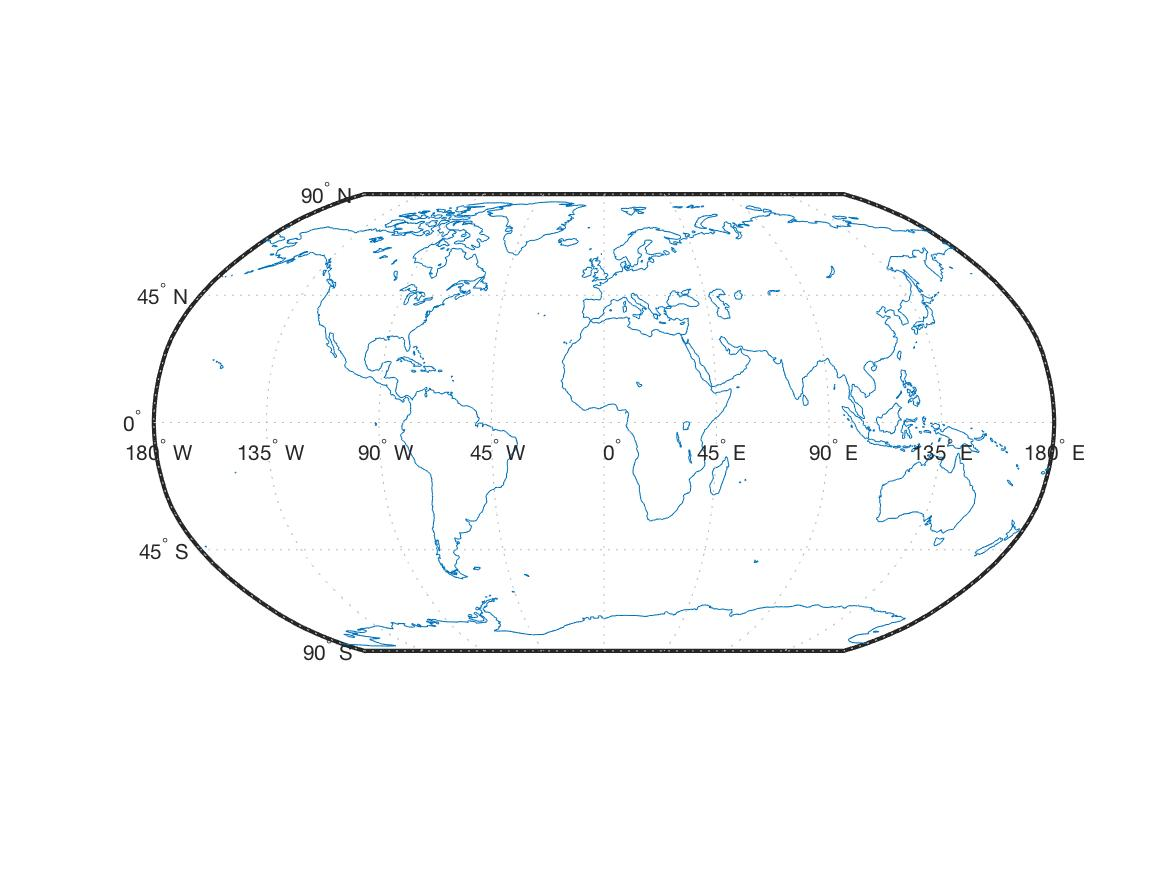
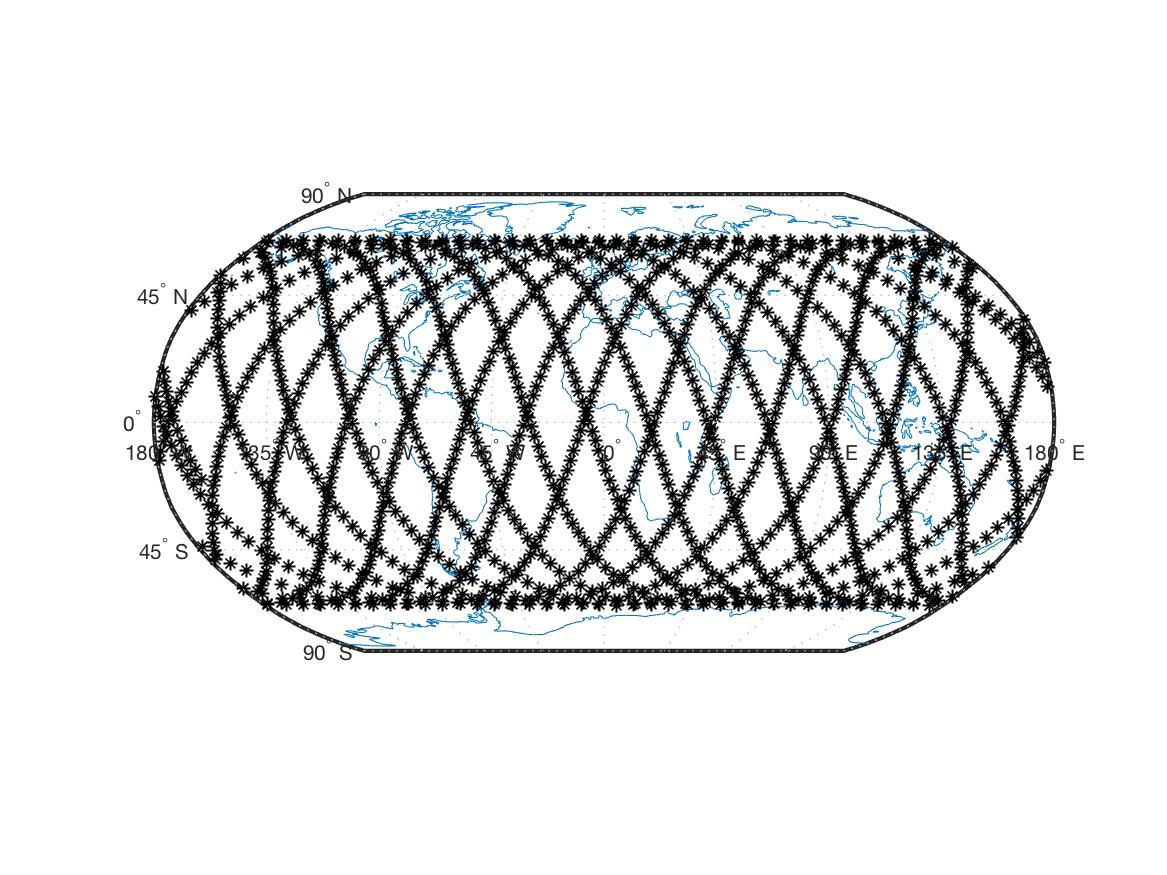
First pass at plotting ground tracks. Code is drafted but has bugs

Changed region(s): [[0.1234, 0.2469, 0.8946, 0.7097]]

diff --git a/initialize_track.py b/initialize_track.py
@@ -1,5 +1,5 @@
 ## Import modules
-import math; import datetime; import numpy as np;
+import math; import datetime; import numpy as np; import matlab.engine; import os;
 
 def solve_kepler(M,e):
     ## Purpose: Given mean anomaly and eccentricity, return eccentric anomaly
@@ -23,12 +23,99 @@ def solve_kepler(M,e):
         E -= ratio
         ratio = f(E)/f_prime(E)
 
+    if E > 2.0*math.pi:
+        two_pi = 2.0*math.pi
+        rem = E % two_pi
+        E = rem
+
     return E
 
-def calc_w(E,e0):
+def calc_w(E,e):
     ## Purpose: Given eccentric anomaly and eccentricity, return true anomaly
 
+    ## Inputs:
+    ##   E: eccentric anomaly
+    ##   e: eccentricity
+
     e_coef = math.sqrt((1-e)/(1+e))
+    w = 2.0*math.atan(math.tan(E/2.0)/e_coef)
+
+    if w < 0:
+        w += 2.0*math.pi
+
+    return w
+
+def peri2geo(O,i,wp):
+    ## Purpose: Given RAAN, inclination, and argument of perigee, return rotation matrix from perifocal to geocentric frame
+
+    ## Inputs:
+    ##   O: RAAN (rad)
+    ##   i: inclination (rad)
+    ##   wp: argument of perigee (rad)
+
+    q11 = -math.sin(O)*math.cos(i)*math.sin(wp) + math.cos(O)*math.cos(wp)
+    q12 = -math.sin(O)*math.cos(i)*math.cos(wp) - math.cos(O)*math.sin(wp)
+    q13 = math.sin(O)*math.sin(i)
+    q21 = math.cos(O)*math.cos(i)*math.sin(wp) + math.sin(O)*math.cos(wp)
+    q22 = math.cos(O)*math.cos(i)*math.cos(wp) - math.sin(O)*math.sin(wp)
+    q23 = -math.cos(O)*math.sin(i)
+    q31 = math.sin(i)*math.sin(wp)
+    q32 = math.sin(i)*math.cos(wp)
+    q33 = math.cos(i)
+
+    Q = np.array([[q11,q12,q13],[q21,q22,q23],[q31,q32,q33]])
+    return Q
+
+def geo2ecef(time):
+    ## Purpose: Return the rotation matrix from geocentrix to ecef at the input times
+
+    y = time.year
+    m = time.month
+    d = time.day
+    hr = time.hour
+    min = time.minute
+    sec = time.sec
+
+    j0 = 367.0*y - math.trunc((7.0*(y+math.trunc((m+9)/12.0)))/4.0) +
+    math.trunc(275.0*m/9.0) + d + 1721013.5
+    T0 = (j0 - 2451545.0)/36525.0
+    thet_g0 = 100.4606184 + 36000.77004*T0 + 0.000387933*math.pow(T0,2) - 2.583e-8*math.pow(T0,3)
+    print(thet_g0)
+
+    thet_g0 = thet_g0 % 360.0
+    if thet_g0 < 0:
+        thet_g0 += 360
+
+    UT = hr + min/60.0 + sec/3600.0
+    thet_g = thet_g0 + 360.98564724*UT/24
+    thet_g = thet_g*math.pi/180.0
+
+    Q = [[math.cos(thet_g),math.sin(thet_g),0],[-math.sin(thet_g),math.cos(thet_g),0],[0,0,1]]
+    return Q
+
+def get_latlon(r):
+    ## Purpose: Given radius vector in ECEF, return latiude and longitude
+
+    ## Inputs:
+    ##   r: radius vector in ECEF frame (m)
+
+    x = r[0]
+    y = r[1]
+    z = r[2]
+
+    r_mag = math.sqrt(math.pow(x,2)+math.pow(y,2)+math.pow(z,2))
+
+    l = x/r_mag
+    m = y/r_mag
+    n = z/r_mag
+
+    dec = math.asin(n)
+    if m > 0:
+        ra = math.acos(l/math.cos(dec))
+    else:
+        ra = 2.0*math.pi - math.acos(l/math.cos(dec))
+
+    return dec,ra
 
 ## Define constants
 J2 = 1.08263e-3;
@@ -36,6 +123,8 @@ G = 6.67e-11;
 Me = 5.972e24;
 Mew = G*Me;
 Re = 6378.37e3; #m
+eng = matlab.engine.start_matlab()
+eng.addpath(os.getcwd()+"/")
 
 ## Read text file with orbit initial conditions (ic.kep)
 with open("ic.kep","r") as f:
@@ -60,8 +149,10 @@ with open("ic.kep","r") as f:
 ## Determine rate of change of O and wp
 i_rad = i0*math.pi/180.0
 coef = -((3*math.sqrt(Mew)*J2*math.pow(Re,2))/(2*pow((1-pow(e0,2)),2)*pow(a0,3.5)))
-dO = coef*math.cos(i_rad)
-dwp = coef*(2.5*pow(math.sin(i_rad),2)-2)
+#dO = coef*math.cos(i_rad)
+dO = 0
+#dwp = coef*(2.5*pow(math.sin(i_rad),2)-2)
+dwp = 0
 
 ## Calculate time since perigee passage
 w0_rad = w0*math.pi/180.0
@@ -70,8 +161,8 @@ E0 = 2.0*math.atan(E_coef)
 if E0 < 0:
     E0 += 2*math.pi
 M0 = E0-e0*math.sin(E0)
-T = 2*math.pi*pow(a0,1.5)/math.sqrt(Mew)
-dt = (M0*T)/2/math.pi ## units of seconds
+T = 2.0*math.pi*pow(a0,1.5)/math.sqrt(Mew)
+dt = (M0*T)/2.0/math.pi ## units of seconds
 print(str(dt)+" seconds since perigee passage.")
 
 ## Define times
@@ -79,12 +170,54 @@ t0 = datetime.datetime.strptime(epoch,"%Y-%m-%d %H:%M:%S")
 print("Epoch: " + str(t0))
 tp = t0 - datetime.timedelta(seconds=dt)
 print("Time of perigee passage: " + tp.strftime("%Y-%m-%d %H:%M:%S"))
+h = math.sqrt(Mew*a0*(1-pow(e0,2)))
+P = pow(h,2)/Mew
 
 ## Main loop -> generate matrix of rs and vs
-rs = []
-vs = []
-times = np.linspace(0,86400,60);
+lats = []
+longs = []
+N = int(24*3600/60)
+times = np.linspace(0,24*3600,N);
 for time in times:
-    M = 2*math.pi*time/T
+    ## Define the time
+    l_time = tp + datetime.timedelta(seconds=time)
+    print(l_time)
+
+    ## Define M, E, and w (true anomaly)
+    M = 2.0*math.pi*time/T
     E = solve_kepler(M,e0)
     w = calc_w(E,e0)
+
+    ## Define change in RAAN and wp
+    O = O0 + dO*time
+    wp = wp0 + dwp*time
+
+    ## Define coordinates in perifocal and geocentric frames
+    r = P/(1+e0*math.cos(w))
+    r_p = np.array([r*math.cos(w),r*math.sin(w),0])
+    qp_g = peri2geo(O,i0,wp)
+    r_geo = np.matmul(qp_g,r_p)
+
+    ## Define coordinates in ecef frame
+    bar = [l_time.year,l_time.month,l_time.day,l_time.hour,l_time.minute,l_time.second]
+    foo = matlab.double(bar)
+
+    #qg_ecef = eng.dcmeci2ecef('IAU-2000/2006',foo)
+    qg_ecef = geo2ecef(l_time)
+    qg_ecef = np.asarray(qg_ecef)
+    r_ecef = np.matmul(qg_ecef,r_geo)
+
+    ## Calculate instanteous latitude and longitude
+    lat,lon = get_latlon(r_ecef)
+
+    ## Append
+    lats.append(lat*180/math.pi)
+    longs.append(lon*180/math.pi)
+
+## Plot
+print(max(lats))
+for lat in lats:
+    print(lat)
+mat_lats = matlab.double(lats)
+mat_lons = matlab.double(longs)
+eng.plot_track(mat_lats,mat_lons,nargout=0)

diff --git a/plot_track.m b/plot_track.m
@@ -9,10 +9,9 @@ load coastlines;
 plotm(coastlat,coastlon);
 
 if length(inputLong) > 0 && length(inputLat) > 0
-    plotm(inputLong,inputLat);
+    plotm(inputLat,inputLong,'*k');
 end
 
 print('ground_track.jpg','-djpeg');
 
 end
-
